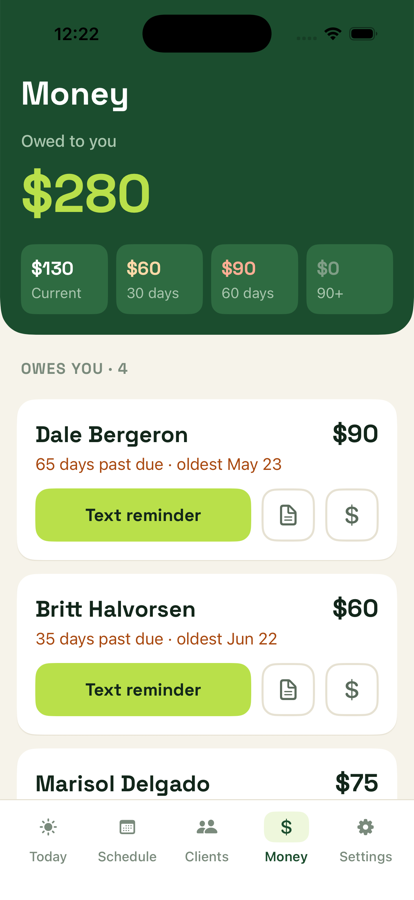
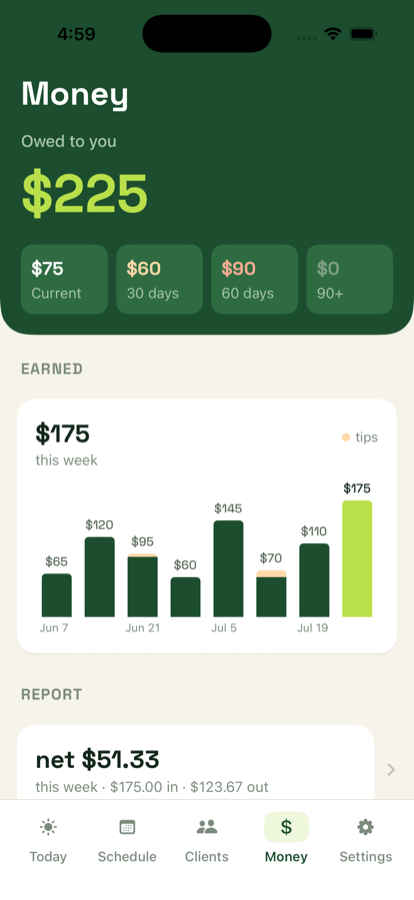
Guide: screenshots for weather, expenses, reports, quotes, and the pipeline

diff --git a/guide.html b/guide.html
@@ -149,8 +149,8 @@ It's a suggestion. You decide.</p>
 <p>Forecasts come from Apple Weather and need a signal to refresh, so grab the week before
 you drive out of range. Everything else on this screen works offline as always.</p>
 </div>
-<figure><img src="guide/schedule.png" alt="Schedule tab"><figcaption>The week at a
-glance, with today outlined.</figcaption></figure>
+<figure><img src="guide/schedule.png" alt="Schedule tab"><figcaption>Next week, with rain
+coming Tuesday and somewhere dry to put those two stops.</figcaption></figure>
 </div>
 
 <h2 id="texting">5. Text your clients</h2>
@@ -188,8 +188,8 @@ gives you three moves:</p>
 <p>Invoices are frozen once issued. If you fix a price afterwards, the client's balance
 updates but the document they received never changes out from under them.</p>
 </div>
-<figure><img src="guide/money.png" alt="Money tab"><figcaption>Who owes, how much, and
-for how long.</figcaption></figure>
+<figure><img src="guide/money.png" alt="Money tab"><figcaption>Who owes and for how long,
+then what you've spent and who needs a nudge.</figcaption></figure>
 </div>
 
 <div class="section">
@@ -248,10 +248,10 @@ over at friendly.</p>
 </div>
 
 <h2 id="numbers">7. Know your numbers</h2>
-<div class="section">
-<div class="text">
 <p>Money coming in is half the picture. The Money tab holds the other half.</p>
 
+<div class="section">
+<div class="text">
 <h3>Expenses</h3>
 <p>Tap <strong>Expenses</strong> under Spending. The fuel pump button in the corner is the
 one you'll use most: it opens with the category already set and the keypad already up, so
@@ -261,7 +261,13 @@ from blades to insurance.</p>
 <p>Expenses group by month with a running total, and they show up in your reports and your
 CSV export, which is the point. Come tax time you're reading a list instead of digging
 through a glovebox.</p>
+</div>
+<figure><img src="guide/expenses.png" alt="Expenses list"><figcaption>Every month totalled,
+every stop accounted for.</figcaption></figure>
+</div>
 
+<div class="section">
+<div class="text">
 <h3>The weekly and monthly report</h3>
 <p>Tap the <strong>Report</strong> card for the numbers a business actually runs on:</p>
 <ul>
@@ -278,14 +284,16 @@ walk back through past periods. The share button in the corner turns whatever yo
 looking at into a one page PDF: text it to yourself, email it to your accountant, or file
 it. It also lists what your clients still owe you as of today, because a great month with
 a growing pile of unpaid invoices isn't a great month.</p>
+</div>
+<figure><img src="guide/report.png" alt="Monthly report"><figcaption>A month on one screen,
+and the same thing shares as a PDF.</figcaption></figure>
+</div>
 
 <h3>Your time</h3>
 <p>The <strong>Your time</strong> card ranks your clients by what an hour at their yard
 actually pays you, worst first. It builds from the job timer, so the more you use the
 timer the truer it gets. This is the screen that tells you which yard to reprice, and it's
 the number your quote calculator is aiming at.</p>
-</div>
-</div>
 
 <h2 id="quotes">8. Win new work</h2>
 <div class="section">
@@ -302,6 +310,13 @@ A new quote is meant to be built at the curb, before you drive away.</p>
   <li><strong>Garden beds:</strong> bed size and mulch depth turn into cubic yards, what
   the mulch will cost, and the labor to spread it, ready to add as a line.</li>
 </ul>
+</div>
+<figure><img src="guide/quote.png" alt="Quote builder"><figcaption>Measurements in, and the
+minutes tally under them updates as you go.</figcaption></figure>
+</div>
+
+<div class="section">
+<div class="text">
 <p>Hedgemony turns all that into minutes of work, prices those minutes at your rate, and
 shows a <strong>suggested</strong> price. Your price is a separate line right under it,
 because the suggestion is a starting point and you know the customer. Pick weekly,
@@ -311,9 +326,15 @@ say yes, tap <strong>They said yes</strong>, pick the first visit date, and the 
 the property, and the whole recurring schedule are created at the price you quoted.
 Nothing to retype. If they pass, mark it lost and it stays in your records where the
 pipeline can learn from it. Swipe any quote to delete it for good.</p>
+</div>
+<figure><img src="guide/quotes.png" alt="Quotes list"><figcaption>Out, waiting, won, and
+lost, in one list.</figcaption></figure>
+</div>
 
+<div class="section">
+<div class="text">
 <h3>Your rate and your price list</h3>
-<p>Both live in <strong>Settings → Price list</strong>.</p>
+<p>Both live in <strong>Settings &rarr; Price list</strong>.</p>
 <ul>
   <li><strong>Target rate per hour</strong> is what you want an hour of your day to earn.
   Every suggested price is built from it. Compare it against the Your time screen now and
@@ -324,6 +345,8 @@ pipeline can learn from it. Swipe any quote to delete it for good.</p>
   trimming, bed cleanup, whatever you offer. They become one tap chips on every quote.</li>
 </ul>
 </div>
+<figure><img src="guide/pricelist.png" alt="Price list settings"><figcaption>Set your hour
+once. Every quote is built from it.</figcaption></figure>
 </div>
 
 <h2 id="leads">9. Leads and flyers</h2>
@@ -338,15 +361,24 @@ where the work you haven't won yet lives.</p>
   <li><strong>Warm leads</strong> is everyone you've marked as a lead, with where they came
   from and when you last talked. Tap through to their profile like any client.</li>
 </ul>
+</div>
+<figure><img src="guide/pipeline.png" alt="Pipeline"><figcaption>Who has gone quiet, and
+for how long. (On your phone each card also offers Text a nudge; this simulator can't
+text.)</figcaption></figure>
+</div>
 
+<div class="section">
+<div class="text">
 <h3>The flyer map</h3>
 <p>Flyered a neighborhood on Saturday? Open <strong>Flyer map</strong>, tap
 <strong>Mark an area</strong>, trace the block you covered, and name it. It saves with
 today's date.</p>
 <p>From then on, that area keeps its own score: any lead or client who turns up inside it
-after the day you flyered gets counted, and the list reads "2 leads · 1 client." Do that a
-few times and you stop guessing which streets are worth the walk.</p>
+after the day you flyered gets counted, and the list reads "2 leads &middot; 1 client." Do
+that a few times and you stop guessing which streets are worth the walk.</p>
 </div>
+<figure><img src="guide/flyers.jpg" alt="Flyer map"><figcaption>One block paid for itself.
+The other is still too new to say.</figcaption></figure>
 </div>
 
 <h2 id="profiles">10. Know your clients</h2>
